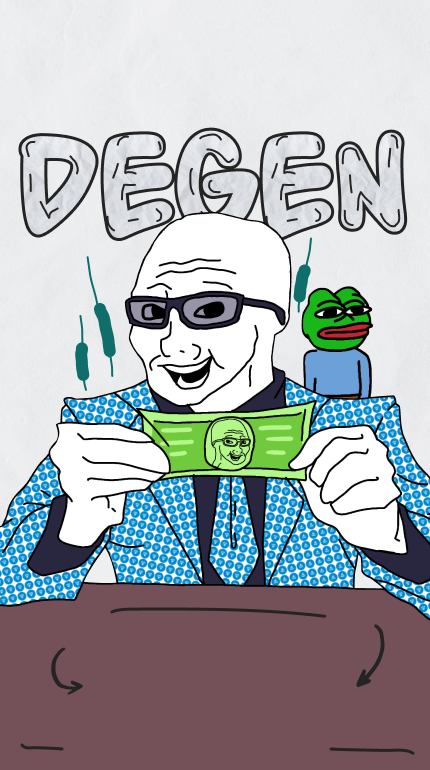
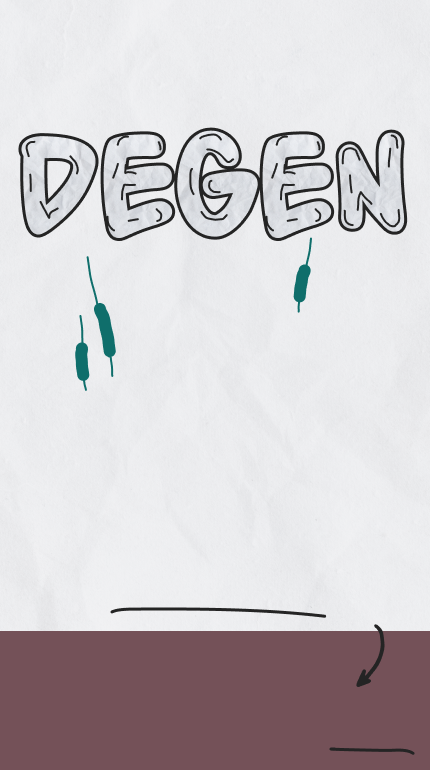
frog position

diff --git a/src/components/features/Hero/Hero.module.scss b/src/components/features/Hero/Hero.module.scss
@@ -1,7 +1,7 @@
 @import '@/mixins.scss';
 
 .hero {
-  background: url('../../../assets/img/hero/hero-bg.png');
+  background: url('../../../assets/img/hero/hero-bg.jpg');
   background-repeat: no-repeat;
   background-size: cover;  
   height: 52vw;
@@ -32,8 +32,10 @@
   justify-content: center;
   align-items: center;
   background-repeat: no-repeat ;
+  z-index: 2;
 
-  @include m {     
+  @include m {
+    z-index: 2;
     background-repeat: no-repeat;
     background-size: cover;
     width: 54.69vw;
@@ -41,10 +43,12 @@
     height: 23.75vw;
     top: 148vw;
     left: 24vw;
+    
   }  
 }
 
 .buyTokenBtnRu {
+  z-index: 200;
   background: url('../../../assets/img/hero/buyTokenBtnRu.png');
   background-size: contain;
   background-repeat: no-repeat ;
@@ -96,4 +100,39 @@
   font-size: 24px;
   margin-bottom: 10px;
   padding-left: 20px  ;
+}
+
+.frog {
+  position: absolute;
+  left: 8.8vw;
+  bottom: 6.2vw;
+  width: 7.76vw;
+  height: 13.2vw;
+  background: url('@/assets/img/hero/frog.png');
+  background-size: cover;
+  
+  @include m {
+    left: 65.8vw;
+    bottom: 75vw;
+    width: 23.46vw;
+    height: 39.1vw;    
+  }
+}
+
+.person {
+  display: none;
+  
+  @include m {
+    display: block;
+    z-index: 2;
+    position: absolute;
+    bottom: -0.1vw;
+    left: 0vw;
+    width: 100vw;
+    height: 129vw;
+    
+    background-size: cover;
+    background-repeat: no-repeat;
+    background-image: url('@/assets/img/hero/person+.png');
+  }
 }

diff --git a/src/components/features/Hero/Hero.jsx b/src/components/features/Hero/Hero.jsx
@@ -10,7 +10,18 @@ const Hero = ({lang}) => {
   
   return (
       <div>
-        <div className={s.hero}>          
+        <div className={s.hero}>
+         
+          <div className={s.twitterFeed}>
+            <h2 className={s.twitterHeader}>x nEWS</h2>
+            <iframe src='https://fc907e2a9c34413eb0c239f1b782edf8.elf.site' width='100%' height='750'
+                    frameBorder='0'></iframe>
+          </div>
+          <div className={s.frog}></div>
+          
+          
+          <div className={s.person}></div>
+
           {
               lang === 'ru' && <button onClick={clickHandler} className={s.buyTokenBtnRu}></button>
           }
@@ -18,13 +29,9 @@ const Hero = ({lang}) => {
               lang === 'en' && <button onClick={clickHandler} className={s.buyTokenBtnEn}></button>
           }
 
-          <div className={s.twitterFeed}>
-            <h2 className={s.twitterHeader}>x nEWS</h2>
-            <iframe src='https://fc907e2a9c34413eb0c239f1b782edf8.elf.site' width='100%' height='750'
-                    frameBorder='0'></iframe>
-          </div>
+
         </div>
-        
+
         <Modal isOpen={isModalOpen} setIsOpen={setIsModalOpen}>
           {
             lang === 'en' ?
